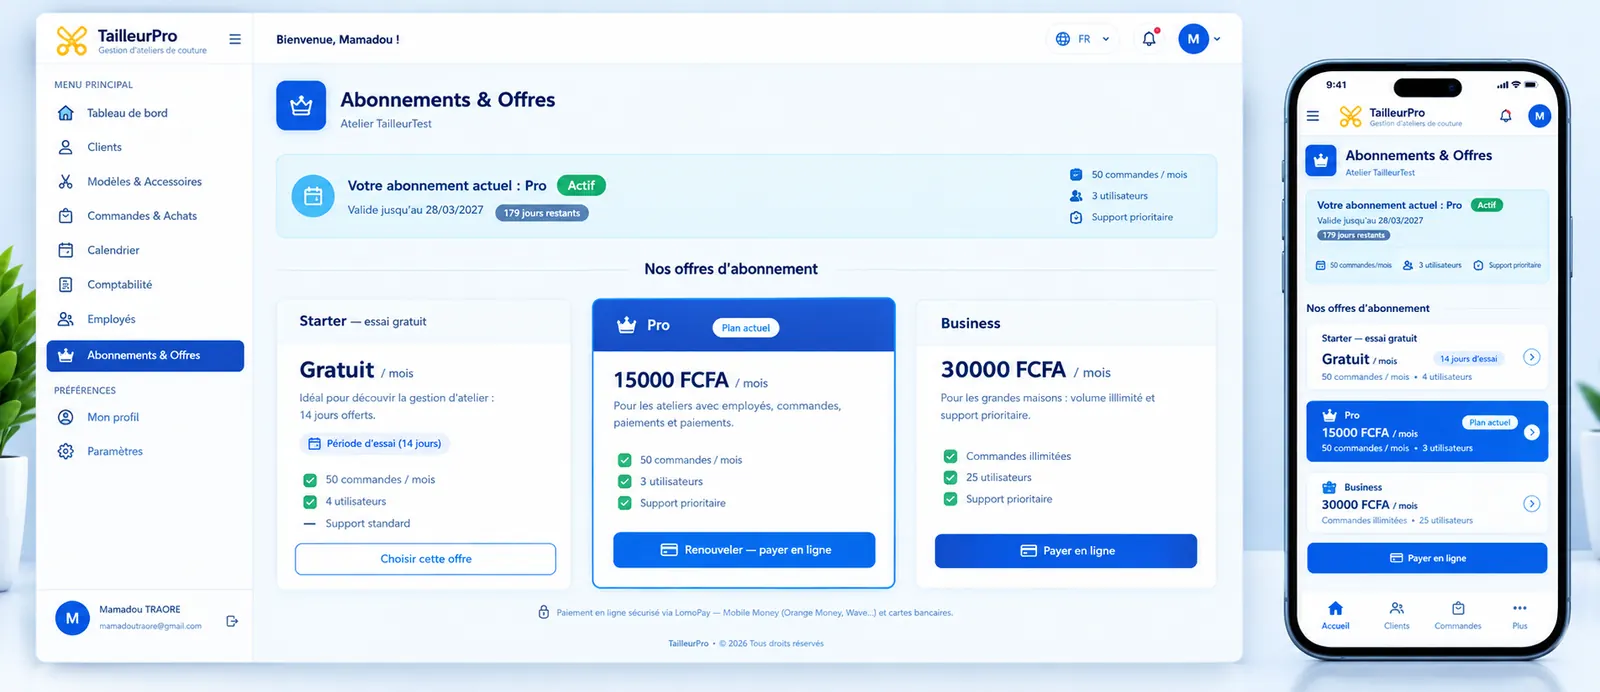
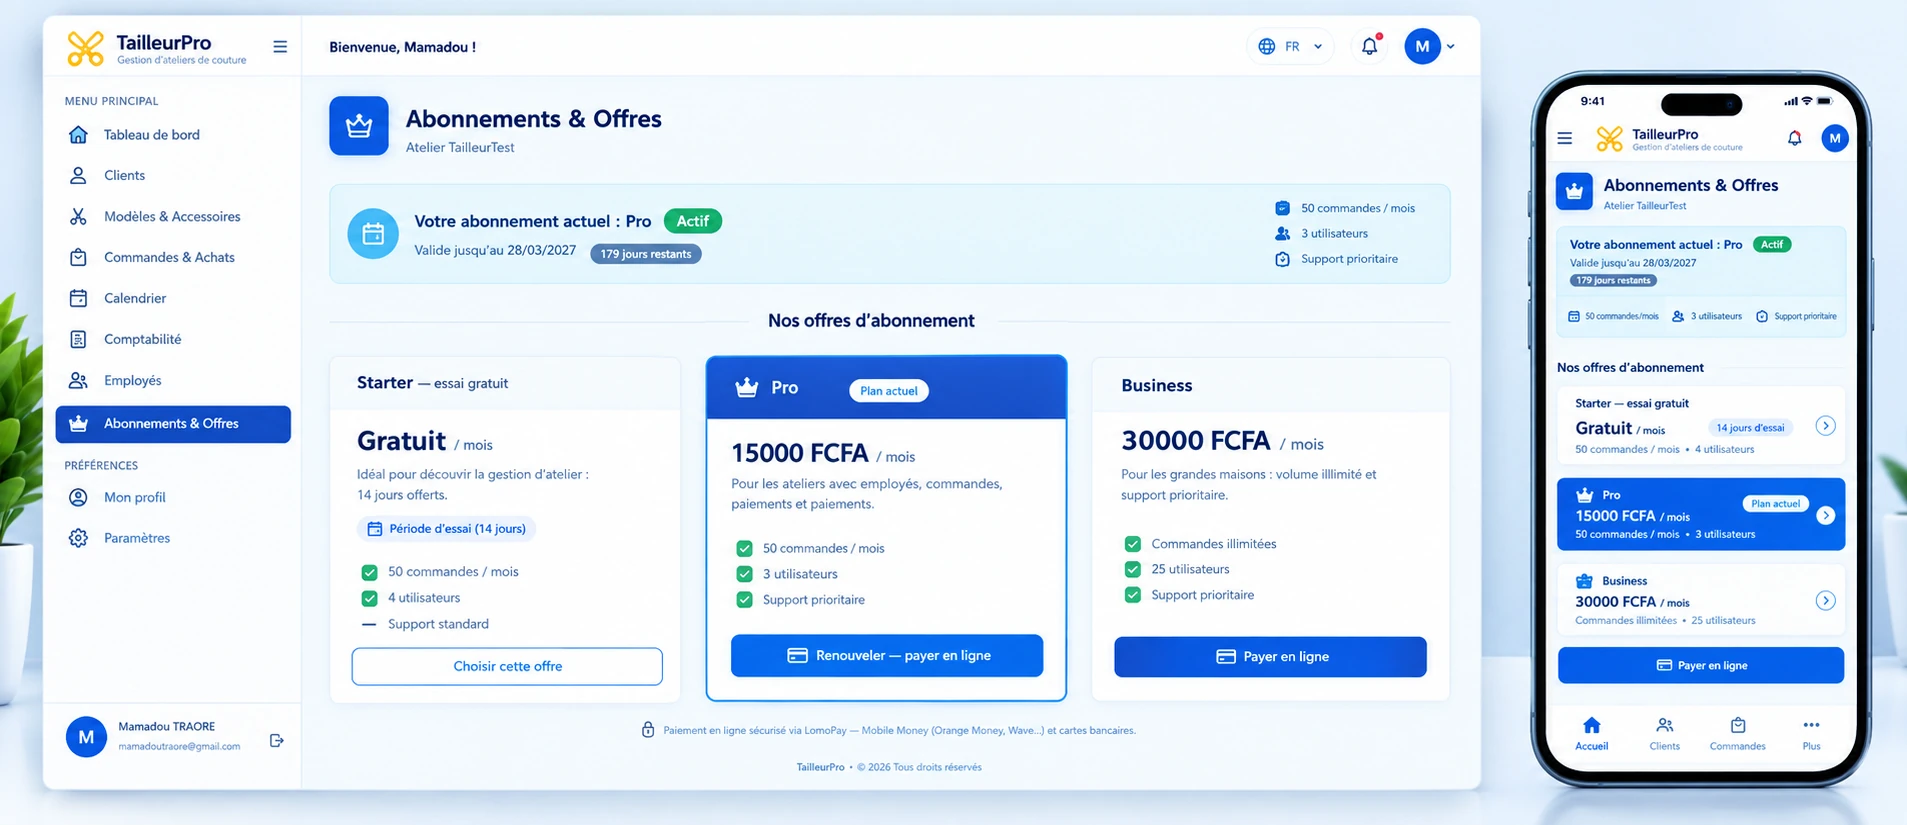
0043b Captures landing nettes : WebP qualite 90 taille native 1907px (texte fin affiche, plus de flou), CSS height:auto + aspect-ratio garantit l integrale de l image (aucun rognage bande noir)

diff --git a/core/templates/core/landing.html b/core/templates/core/landing.html
@@ -291,7 +291,11 @@
         }
         .carousel-pro .carousel-inner { border-radius: 14px; overflow: hidden;
             box-shadow: 0 18px 40px -18px rgba(2,6,23,.65); }
-        .carousel-pro .carousel-item img { width: 100%; display: block; }
+        .carousel-pro .carousel-item img {
+            width: 100%; height: auto; display: block;
+            /* qualité 0043b : image entière (pas de rognage), texte fin net */
+            image-rendering: auto; aspect-ratio: 1907 / 825;
+        }
         .carousel-pro .carousel-indicators { position: static; margin-top: 16px; margin-bottom: 0; }
         .carousel-pro .carousel-indicators [data-bs-target] {
             width: 10px; height: 10px; border-radius: 50%; background: rgba(255,255,255,.45);
@@ -382,7 +386,7 @@
                         </div>
                         <img src="{% static 'core/img/landing/hero-tableau-de-bord.webp' %}"
                              alt="Tableau de bord TailleurPro : chiffre d'affaires, commandes en cours, graphiques — sur ordinateur et mobile"
-                             class="img-fluid rounded-3 w-100" style="display:block;" fetchpriority="high">
+                             class="img-fluid rounded-3 w-100" style="display:block;height:auto;" fetchpriority="high">
                     </div>
                 </div>
             </div>
